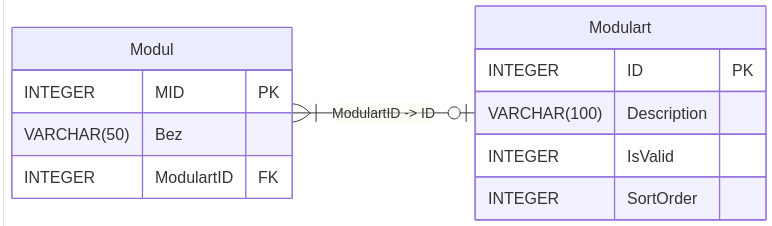
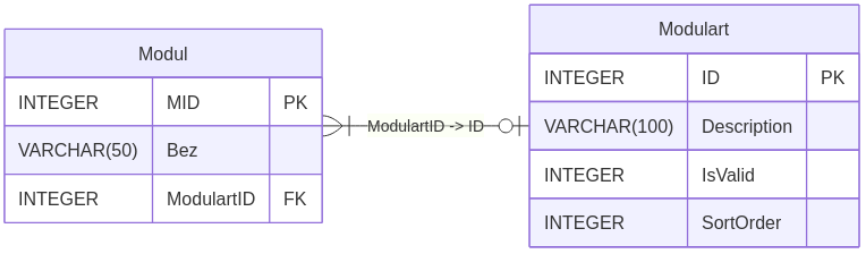
wip

diff --git a/home/lv/dmdb/er/er2.html b/home/lv/dmdb/er/er2.html
@@ -3,13 +3,14 @@ layout: default1
 nav: dmdb-er
 title: ER-Modelle 2 - DMDB
 is_slide: 1
-n: 17
+n: 12
 ---
 <!--
     01 ******************************************************************
 -->
 {% include padding-id.html id=1 %}
-<h1>Auswahlfelder</h1>
+<h1>Wertelisten</h1>
+<h2>Auswahlfelder</h2>
 <ul class="w3-large">
     <li>Liste mit einer festgelegten Menge von Werten  </li>
     <li>Z.B. für Drop-Down-Menü</li>
@@ -23,14 +24,8 @@ n: 17
     </div>
 </div>
 
-<div class="ic-gap"></div>
-
-
-<!--
-    02 ******************************************************************
--->
-{% include padding-id.html id=2 %}
-<h1>Implementierung durch Check-Constrains</h1>
+<hr>
+<h2>Implementierung durch Check-Constrains</h2>
 <pre><code class="language-sql">CREATE TABLE Modul (
   MID INTEGER NOT NULL PRIMARY KEY,
   Bez VARCHAR(100) NOT NULL,
@@ -40,21 +35,31 @@ n: 17
 ); </code></pre>
 
 <ul class="w3-large">
+    <li>Liste der Werte nicht explizit in den Daten repräsentiert</li>
     <li>Änderung an Werteliste erfordert Änderung des Datenmodells</li>
     <li>Änderung am Code, d.h. Entwicklungstätigkeit</li>
 </ul>
+
 
 <div class="ic-gap"></div>
 
 
 <!--
-    03 ******************************************************************
+    02 ******************************************************************
 -->
-{% include padding-id.html id=3 %}
-<h1 class="ic-neg10">Wertelisten</h1>
+{% include padding-id.html id=2 %}
+<h1>Wertelisten im ER-Modell</h1>
 <img class="w3-image" src="/home/lv/dmdb/a/er2/d10.png">
 <hr>
 <img class="w3-image" src="/home/lv/dmdb/a/er2/d11.png">
+<hr>
+<ul class="w3-large">
+    <li>Änderung an Werteliste erfordert neuen Eintrag in der Tabelle</li>
+    <li>Keine Änderung am Code, lediglich Dateningabe</li>
+    <li>Verbund erforderlich</li>
+    <li><b>IsValid</b>: Ausblenden von nicht mehr nutzbaren Werten</li>
+    <li><b>SortOrder</b>: Sortierreihenfolge bei der Ausgabe</li>
+</ul>
 <hr>
 <pre><code class="language-sql">CREATE TABLE Modul (
   MID INTEGER NOT NULL,
@@ -75,13 +80,24 @@ ALTER TABLE Modul
 INSERT INTO Modulart (ID, Description, IsValid, SortOrder) VALUES (1, 'Pflicht', 1, 1);
 INSERT INTO Modulart (ID, Description, IsValid, SortOrder) VALUES (2, 'Wahlpflicht', 1, 2);
 INSERT INTO Modulart (ID, Description, IsValid, SortOrder) VALUES (3, 'Wahl', 1, 3);</code></pre>
-<ul class="w3-large">
-    <li>Änderung an Werteliste erfordert neuen Eintrag in die Tabelle</li>
-    <li>Keine Änderung am Code, lediglich Dateningabe</li>
-    <li>Verbund erforderlich</li>
-    <li><b>IsValid</b>: Ausblenden von nicht mehr nutzbaren Werten</li>
-    <li><b>SortOrder</b>: Sortierreihenfolge bei der Ausgabe</li>
-</ul>
+
+<div class="ic-gap"></div>
+
+
+<!--
+    03 ******************************************************************
+-->
+{% include padding-id.html id=3 %}
+<h1>Problem: Lokale Schlüssel</h1>
+<img class="w3-image" src="/home/lv/dmdb/a/er2/d20.png">
+<hr>
+<p class="w3-large">Konsistenzproblem</p>
+<pre><code class="language-sql">INSERT INTO Note 
+  VALUES (1, 2.3, 1, 1);
+INSERT INTO Note 
+  VALUES (2, 3.7, 1, 1);</code></pre>
+<hr>
+<img class="w3-image" src="/home/lv/dmdb/a/er2/d21.png">
 <div class="ic-gap"></div>
 
 
@@ -89,7 +105,21 @@ INSERT INTO Modulart (ID, Description, IsValid, SortOrder) VALUES (3, 'Wahl', 1,
     04 ******************************************************************
 -->
 {% include padding-id.html id=4 %}
-<h1>xxx</h1>
+<h1>Problem: Transferierbarkeit</h1>
+<img class="w3-image" src="/home/lv/dmdb/a/er2/d40.png">
+<hr>
+<p class="w3-large ic-neg10">Konsistenzproblem</p>
+<pre><code class="language-sql">UPDATE Raum 
+  set GID=99
+WHERE RID=1;</code></pre>
+<ul class="w3-large">
+    <li>Raum wird in ein anderes Gebäude transferiert</li>
+    <li>Das ist inhaltlich inkonsistent</li>
+    <li>Fremdschüssel auf Raum-Datensatz mit <code>RID=1</code> ggfs. nicht mehr gültig im neuen Gebäude</li>
+</ul>
+<hr>
+<img class="w3-image" src="/home/lv/dmdb/a/er2/d41.png">
+
 <div class="ic-gap"></div>
 
 
@@ -97,14 +127,19 @@ INSERT INTO Modulart (ID, Description, IsValid, SortOrder) VALUES (3, 'Wahl', 1,
     05 ******************************************************************
 -->
 {% include padding-id.html id=5 %}
-<h1>Identizierende Beziehungstypen 1</h1>
-        <img class="w3-image" src="/home/lv/dmdb/a/er2/d20.png"><br><hr>
-        <img class="w3-image" src="/home/lv/dmdb/a/er2/d21.png">
-        <p class="w3-large">Konsistenzproblem</p>
-        <pre><code class="language-sql">INSERT INTO Note 
-  VALUES (1, 2.3, 1, 1);
-INSERT INTO Note 
-  VALUES (2, 3.7, 1, 1);</code></pre>
+<h1>Problem: Mehrstellige Beziehungstypen</h1>
+<ul class="w3-large">
+    <li>Personen können mehrere Adressen haben</li>
+    <li>Einer Adresse können mehrere Personen zugeordnet werden</li>
+    <li>Personen können mehrere Adressarten haben</li>
+    <li>Einer Adressart können mehrere Personen zugeordnet sein</li>
+    <li>Eine Adresse kann mehrere Adressarten haben</li>
+    <li>Einer Adressart können mehrere Adressen zugeordnet sein</li>
+</ul>
+<img class="w3-image" src="/home/lv/dmdb/a/er2/d60.png">
+<hr>
+<img class="w3-image" src="/home/lv/dmdb/a/er2/d61-80.png">
+<p class="w3-large">Nicht möglich festzustellen, welche Adresse von Özdem privat oder geschäftlich ist</p>
 <div class="ic-gap"></div>
 
 
@@ -112,11 +147,32 @@ INSERT INTO Note
     06 ******************************************************************
 -->
 {% include padding-id.html id=6 %}
-<h1>Identizierende Beziehungstypen 2</h1>
-        <img class="w3-image" src="/home/lv/dmdb/a/er2/d30.png"><br><hr>
-        <img class="w3-image" src="/home/lv/dmdb/a/er2/d31.png">
-        <p class="w3-large ic-neg10">Kein Konsistenzproblem</p>
-        <pre><code class="language-sql">INSERT INTO Note 
+<h1>Assoziationstypen</h1>
+<img class="w3-image" src="/home/lv/dmdb/a/er2/d70.png">
+<ul class="w3-large">
+    <li>Personenadresse hat Doppelnatur</li>
+    <li>Wird daher Assoziationstyp genannt</li>
+    <li>Ist Entitätstyp</li>
+    <li>Ist aber auch Beziehungstyp: verbindet Entitätstypen</li>
+    <li>Dreistelliger Beziehungstyp</li>
+    <li>Globale Schlüssel</li>
+</ul>
+<hr>
+<img class="w3-image" src="/home/lv/dmdb/a/er2/d71-80.png">
+<p class="w3-large">Nun möglich festzustellen, welche Adresse von Özdem privat oder geschäftlich ist</p>
+
+<div class="ic-gap"></div>
+
+
+<!--
+    07 ******************************************************************
+-->
+{% include padding-id.html id=7 %}
+<h1>Globale Schlüssel</h1>
+<img class="w3-image" src="/home/lv/dmdb/a/er2/d30.png"><br><hr>
+<img class="w3-image" src="/home/lv/dmdb/a/er2/d31.png">
+<p class="w3-large ic-neg10">Kein Konsistenzproblem</p>
+<pre><code class="language-sql">INSERT INTO Note 
   VALUES (2.3, 1, 1);</code></pre>
   <p class="w3-large ic-neg10">Nicht möglich</p>
         <pre><code class="language-sql">INSERT INTO Note 
@@ -129,40 +185,23 @@ INSERT INTO Note
 
 
 <!--
-    07 ******************************************************************
--->
-{% include padding-id.html id=7 %}
-<h1>Nichttransferierbarkeit 1</h1>
-        <img class="w3-image" src="/home/lv/dmdb/a/er2/d40.png"><br><hr>
-        <img class="w3-image" src="/home/lv/dmdb/a/er2/d41.png">
-        <p class="w3-large ic-neg10">Konsistenzproblem</p>
-        <pre><code class="language-sql">UPDATE Raum 
-  set GID=99
-WHERE RID=1;</code></pre>
-        <ul class="w3-large">
-            <li>Raum wird in ein anderes Gebäude transferiert</li>
-            <li>Das ist inhaltlich inkonsistent</li>
-            <li>Fremdschüssel auf Raum 1 bleiben gültig</li>
-        </ul>
-<div class="ic-gap"></div>
-
-
-<!--
     08 ******************************************************************
 -->
 {% include padding-id.html id=8 %}
-<h1>Nichttransferierbarkeit 2</h1>
-        <img class="w3-image" src="/home/lv/dmdb/a/er2/d50.png"><br><hr>
-        <img class="w3-image" src="/home/lv/dmdb/a/er2/d51.png">
-        <p class="w3-large ic-neg10">Identifizierender Beziehungstyp, zusammengesetzter Primärschlüssel</p>
-        <pre><code class="language-sql">UPDATE Raum 
-  set GID=99
+<h1>Nichttransferierbarkeit</h1>
+<img class="w3-image" src="/home/lv/dmdb/a/er2/d50.png">
+<hr>
+<p class="w3-large ic-neg10">Zusammengesetzter Primärschlüssel</p>
+<pre><code class="language-sql">UPDATE Raum 
+  set befindet_sich_inID=99
 WHERE RID=1;</code></pre>
-        <ul class="w3-large">
-            <li>Raum erhält neue Identität - ist somit ein neuer Raum</li>
-            <li>Update nur möglich, wenn kein Fremdschüssel auf Raum 1 zeigt</li>
-        </ul>
-<p class="w3-large">Fremdschüssel auf Raum 1 müssen vorher gelöscht werden</p>
+<ul class="w3-large">
+    <li>Raum erhält neue Identität - ist somit ein neuer Raum</li>
+    <li>Update nur möglich, wenn kein Fremdschüssel auf Raum mit <code>RID=1</code> zeigt</li>
+    <li>Fremdschüssel auf Raum mit <code>RID=1</code> müssen vorher gelöscht werden</li>
+</ul>
+<hr>
+<img class="w3-image" src="/home/lv/dmdb/a/er2/d51.png">
 <div class="ic-gap"></div>
 
 
@@ -172,7 +211,7 @@ WHERE RID=1;</code></pre>
 {% include padding-id.html id=9 %}
 <h1>Existenzabhängigkeit</h1>
 <img class="w3-image" src="/home/lv/dmdb/a/er2/d50.png">
- <pre><code class="language-sql">DELETE FROM Gebaeude 
+<pre><code class="language-sql">DELETE FROM Gebaeude 
 WHERE GID=1;</code></pre>
 <ul class="w3-large">
     <li>Raum kann nicht verschoben werden (Nichttransferierbarkeit)</li>
@@ -186,26 +225,18 @@ WHERE GID=1;</code></pre>
     10 ******************************************************************
 -->
 {% include padding-id.html id=10 %}
-<h1>Problem zweistelliger Beziehungstypen 1</h1>
-        <ul class="w3-large">
-            <li>Personen können mehrere Adressen haben</li>
-            <li>Einer Adresse können mehrere Personen zugeordnet werden</li>
-            <li>Personen können mehrere Adressarten haben</li>
-            <li>Einer Adressart können mehrere Personen zugeordnet sein</li>
-            <li>Eine Adresse kann mehrere Adressarten haben</li>
-            <li>Einer Adressart können mehrere Adressen zugeordnet sein</li>
-        </ul>
-        <img class="w3-image" src="/home/lv/dmdb/a/er2/d60.png">
+<h1>Note mit Werteliste</h1>
+<img class="w3-image" src="/home/lv/dmdb/a/er2/d32.png">
+<hr>
+<img class="w3-image" src="/home/lv/dmdb/a/er2/d33.png">
 <div class="ic-gap"></div>
-
 
 <!--
     11 ******************************************************************
 -->
 {% include padding-id.html id=11 %}
-<h1>Problem zweistelliger Beziehungstypen 2</h1>
-<img class="w3-image" src="/home/lv/dmdb/a/er2/d61-80.png">
-<p class="w3-large">Nicht möglich festzustellen, welche Adresse von Özdem privat oder geschäftlich ist</p>
+<h1>Beispiel Handelsunternehmen</h1>
+<img class="w3-image" src="/home/lv/dmdb/a/er2/d80.png">
 <div class="ic-gap"></div>
 
 
@@ -213,68 +244,6 @@ WHERE GID=1;</code></pre>
     12 ******************************************************************
 -->
 {% include padding-id.html id=12 %}
-<h1>Assoziationstypen</h1>
-        <img class="w3-image" src="/home/lv/dmdb/a/er2/d70.png">
-        <ul class="w3-large">
-            <li>Personenadresse hat Doppelnatur</li>
-            <li>Wird daher Assoziationstyp genannt</li>
-            <li>Ist Entitätstyp</li>
-            <li>Ist aber auch Beziehungstyp: verbindet Entitätstypen</li>
-            <li>Dreistelliger Beziehungstyp</li>
-        </ul>
-<div class="ic-gap"></div>
-
-
-<!--
-    13 ******************************************************************
--->
-{% include padding-id.html id=13 %}
-<h1>Auflösung Problem</h1>
-<img class="w3-image" src="/home/lv/dmdb/a/er2/d71-80.png">
-<p class="w3-large">Nun möglich festzustellen, welche Adresse von Özdem privat oder geschäftlich ist</p>
-<div class="ic-gap"></div>
-
-
-<!--
-    14 ******************************************************************
--->
-{% include padding-id.html id=14 %}
-<h1>Zweistellige Beziehungstypen mit Attributen</h1>
-<img class="w3-image" src="/home/lv/dmdb/a/er2/d30.png">
-<ul class="w3-large">
-    <li>Note verbindet Studierende mit Modulen</li>
-    <li>Ist Assoziationstyp</li>
-    <li>Als Beziehungstyp ist er zweistellig, hat aber ein Attribut, den Notenwert</li>
-    <li>Kann daher nicht als N-zu-M-Beziehungstyp modelliert werden</li>
-</ul>
-<div class="ic-gap"></div>
-
-
-<!--
-    15 ******************************************************************
--->
-{% include padding-id.html id=15 %}
-<h1>Note mit Werteliste</h1>
-<img class="w3-image" src="/home/lv/dmdb/a/er2/d32.png">
-<hr>
-<img class="w3-image" src="/home/lv/dmdb/a/er2/d33.png">
-<div class="ic-gap"></div>
-
-
-<!--
-    16 ******************************************************************
--->
-{% include padding-id.html id=16 %}
-<h1>Beispiel Handelsunternehmen</h1>
-<img class="w3-image" src="/home/lv/dmdb/a/er2/d80.png">
-<div class="ic-gap"></div>
-
-
-<!--
-    17 ******************************************************************
--->
-{% include padding-id.html id=17 %}
 <h1>Assoziationstypen in HVS</h1>
 <img class="w3-image" src="/home/lv/dmdb/a/er2/d90.png">
 <div class="ic-gap"></div>
-